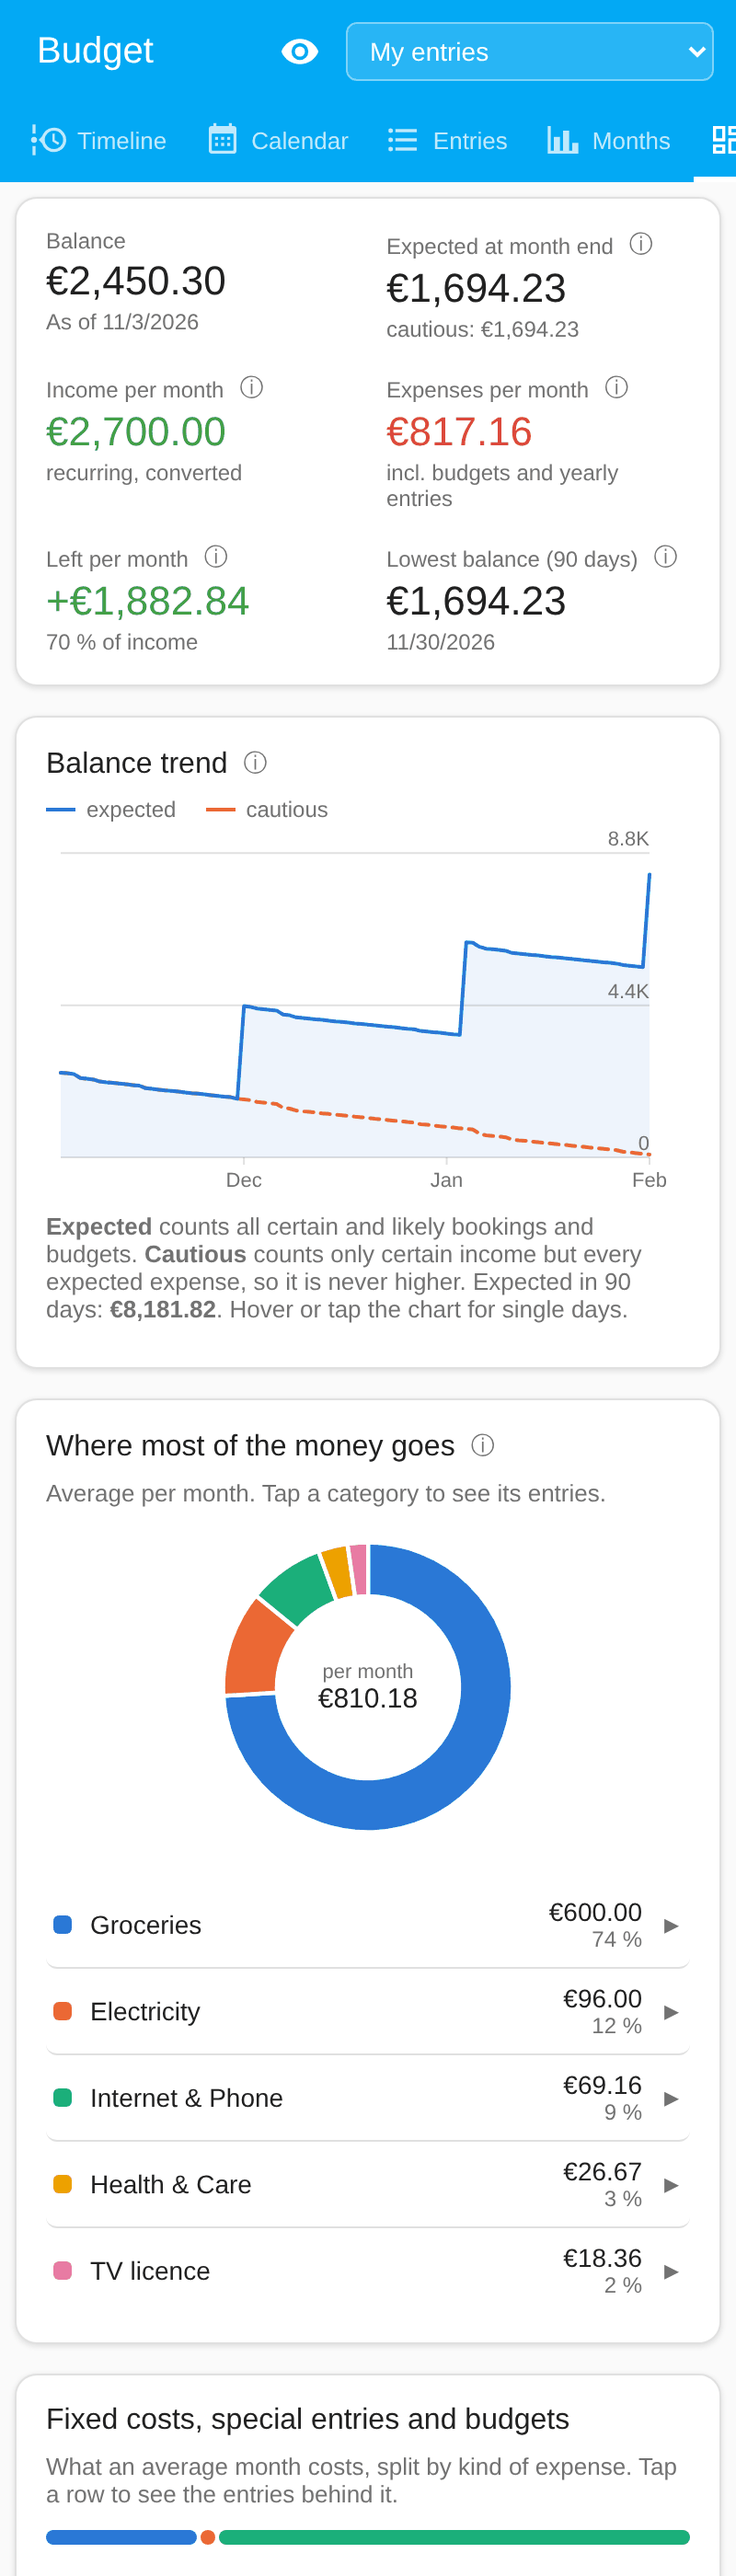
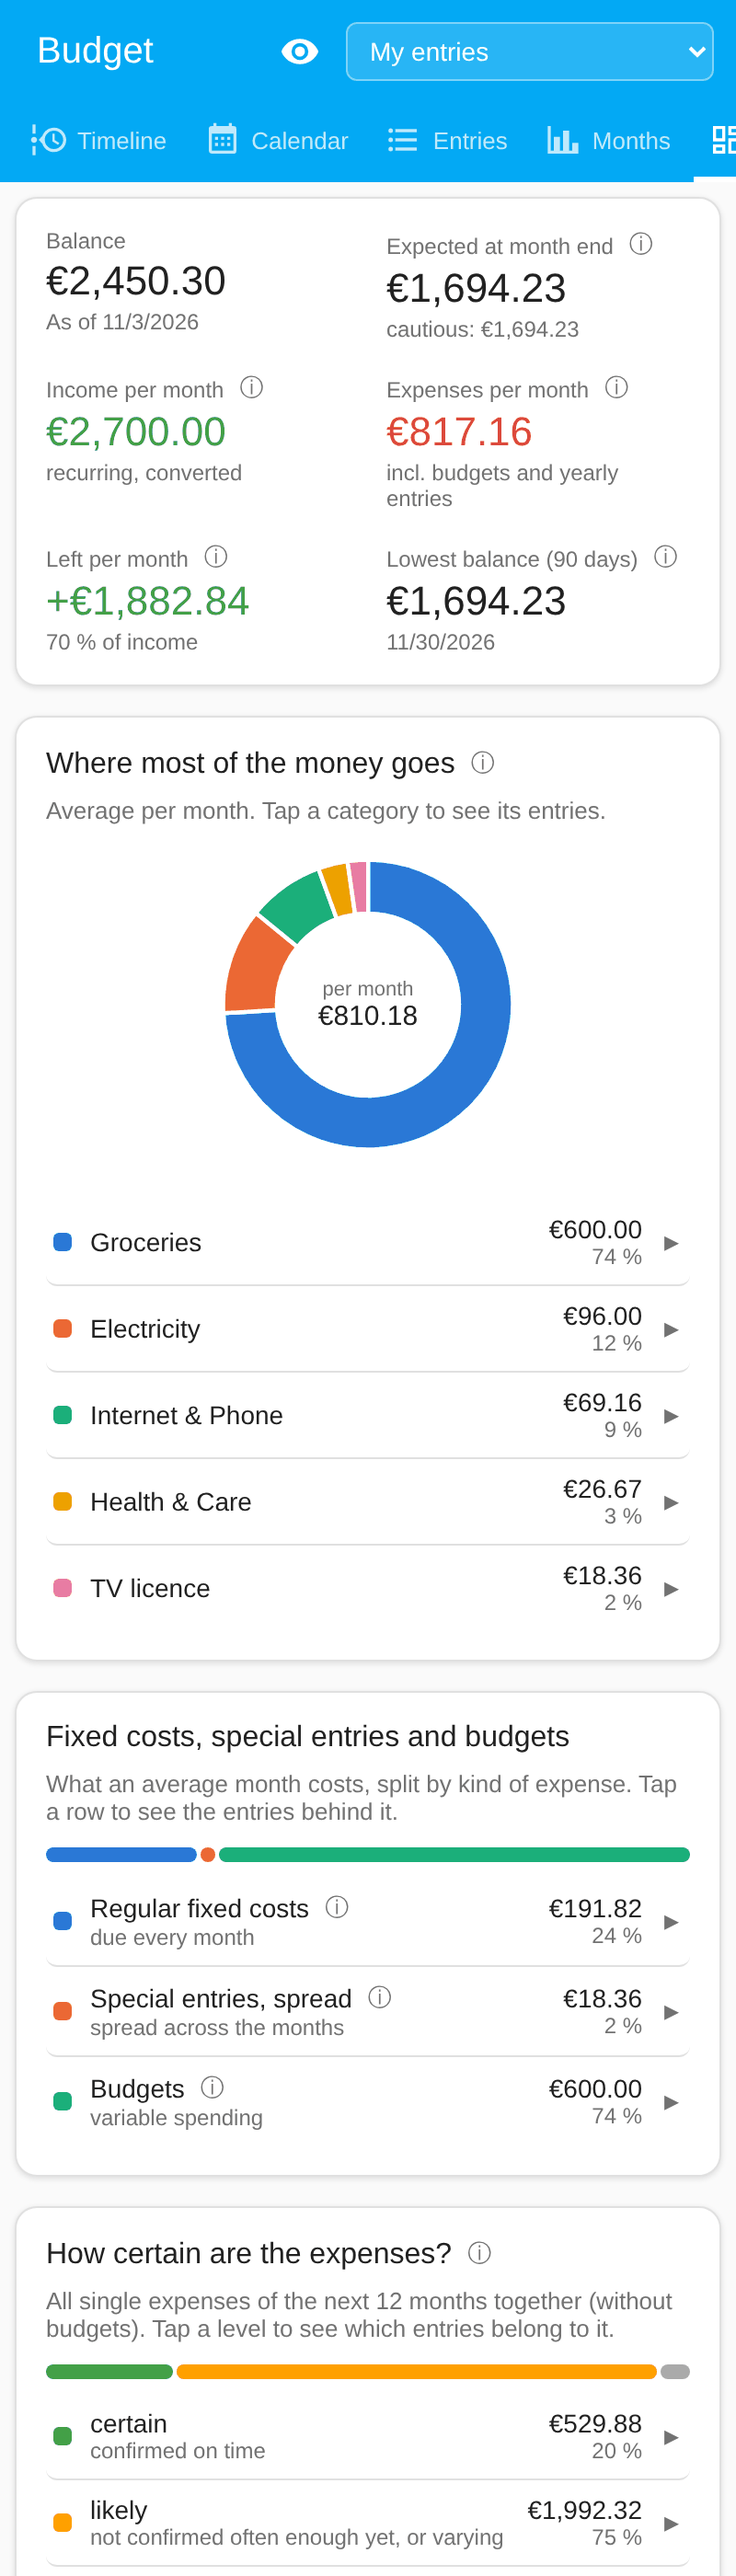
Kontostand-Verlauf aus der Übersicht entfernt (v0.7.3) (#29)
Claude-Session: https://claude.ai/code/session_01TQxBNxp7GSYrGRsbUUGUXa

diff --git a/custom_components/haushaltsbuch/frontend/haushaltsbuch-panel.js b/custom_components/haushaltsbuch/frontend/haushaltsbuch-panel.js
@@ -255,7 +255,6 @@ class HaushaltsbuchPanel extends HTMLElement {
       this._incognito = false;
     }
     this.shadowRoot.addEventListener("click", (ev) => this._onClick(ev));
-    this.shadowRoot.addEventListener("pointermove", (ev) => this._onTrendPointer(ev));
     this.shadowRoot.addEventListener("mouseover", (ev) => {
       const help = ev.target.closest?.(".help");
       if (help && help !== this._helpFor) {
@@ -267,8 +266,6 @@ class HaushaltsbuchPanel extends HTMLElement {
       // Only a text opened by hovering closes when the mouse leaves; a tapped one stays.
       if (this._helpByHover && ev.target.closest?.(".help") && !ev.relatedTarget?.closest?.(".help")) this._hideHelp();
     });
-    this.shadowRoot.addEventListener("pointerdown", (ev) => this._onTrendPointer(ev));
-    this.shadowRoot.addEventListener("pointerleave", (ev) => this._onTrendPointer(ev), true);
     window.addEventListener("scroll", () => this._hideHelp(), { passive: true, capture: true });
     window.addEventListener("resize", () => {
       if (this._view !== "dashboard" || !this.isConnected) return;
@@ -938,116 +935,7 @@ class HaushaltsbuchPanel extends HTMLElement {
       ${tile(tr("Bleibt pro Monat", "Left per month"), this._money(free, true), monthlyIn > 0 ? tr(`${Math.round((free / monthlyIn) * 100)} % der Einnahmen`, `${Math.round((free / monthlyIn) * 100)} % of income`) : "", free < 0 ? "neg" : "pos", tr("Einnahmen pro Monat minus Ausgaben pro Monat. So viel kannst du im Schnitt sparen.", "Income per month minus expenses per month: what you can save on average."))}
       ${tile(tr("Tiefster Stand (90 Tage)", "Lowest balance (90 days)"), lowest ? this._money(lowest.balance_likely) : "—", lowest ? fmtDate(lowest.date) : "", lowest && lowest.balance_likely < 0 ? "neg" : "", tr("Der niedrigste erwartete Kontostand in den nächsten 90 Tagen, meist kurz vor dem Gehalt.", "The lowest expected balance in the next 90 days, usually just before payday."))}
     </div></div>`;
-    return kpis + this._renderTrend(days) + this._renderCategoryPie(rows) + this._renderSpendSplit(rows, itemsById) + this._renderCertaintySplit(rows) + this._renderFrequencySplit(active) + this._renderTopItems(active) + this._renderUpcomingSpecials(rows, itemsById);
-  }
-
-  _renderTrend(days) {
-    const pts = days.filter((d) => d.balance_likely !== null);
-    if (pts.length < 2) {
-      return `<div class="card"><h3>${tr("Kontostand-Verlauf", "Balance trend")}</h3><div class="empty">${tr("Setze zuerst einen Kontostand, dann erscheint hier der Verlauf der nächsten 90 Tage.", "Set a balance first to see the next 90 days here.")}</div></div>`;
-    }
-    const W = Math.max(280, Math.min(this.clientWidth || 400, 900) - 64);
-    const H = 200;
-    const pad = { l: 8, r: 8, t: 12, b: 22 };
-    const vals = pts.flatMap((d) => [d.balance_likely, d.balance_sure]);
-    let lo = Math.min(...vals, 0);
-    let hi = Math.max(...vals);
-    const span = hi - lo || 1;
-    hi += span * 0.08;
-    lo -= lo < 0 ? span * 0.08 : 0;
-    const x = (i) => pad.l + (i / (pts.length - 1)) * (W - pad.l - pad.r);
-    const y = (v) => pad.t + (1 - (v - lo) / (hi - lo)) * (H - pad.t - pad.b);
-    const path = (key) => pts.map((d, i) => `${i ? "L" : "M"}${x(i).toFixed(1)},${y(d[key]).toFixed(1)}`).join("");
-    const area = `${path("balance_likely")}L${x(pts.length - 1).toFixed(1)},${y(lo).toFixed(1)}L${x(0).toFixed(1)},${y(lo).toFixed(1)}Z`;
-    const ticks = [];
-    pts.forEach((d, i) => {
-      if (parseIso(d.date).getDate() === 1) ticks.push(i);
-    });
-    const gridVals = [lo, (lo + hi) / 2, hi].map((v) => Math.round(v / 100) * 100);
-    this._trendGeom = { pts, W, H, x, y };
-    const last = pts[pts.length - 1];
-    return `<div class="card">
-      <h3>${tr("Kontostand-Verlauf", "Balance trend")}${this._help(tr("Ausgehend von deinem zuletzt gesetzten Kontostand wird jede kommende Buchung abgezogen oder addiert. Erwartet: sichere und wahrscheinliche Buchungen und Budgets. Vorsichtig: nur sichere Einnahmen, aber alle erwarteten Ausgaben.", "Starting from the balance you last set, every upcoming booking is added or subtracted. Expected: certain and likely bookings and budgets. Cautious: only certain income, but every expected expense."))}</h3>
-      <div class="legend">
-        <span><i class="swatch line s1"></i>${tr("erwartet", "expected")}</span>
-        <span><i class="swatch line s2 dashed"></i>${tr("vorsichtig", "cautious")}</span>
-      </div>
-      <div class="trend" style="height:${H}px">
-        <svg width="${W}" height="${H}" viewBox="0 0 ${W} ${H}" role="img" aria-label="${tr("Erwarteter Kontostand der nächsten 90 Tage", "Expected balance over the next 90 days")}">
-          ${gridVals.map((v) => `<line class="grid" x1="${pad.l}" x2="${W - pad.r}" y1="${y(v)}" y2="${y(v)}"></line><text class="axis" x="${W - pad.r}" y="${y(v) - 4}" text-anchor="end">${this._compact(v)}</text>`).join("")}
-          ${lo < 0 ? `<line class="zero" x1="${pad.l}" x2="${W - pad.r}" y1="${y(0)}" y2="${y(0)}"></line>` : ""}
-          ${ticks.map((i) => `<line class="tick" x1="${x(i)}" x2="${x(i)}" y1="${H - pad.b}" y2="${H - pad.b + 4}"></line><text class="axis" x="${x(i)}" y="${H - 6}" text-anchor="middle">${monthName(parseIso(pts[i].date).getMonth(), "short")}</text>`).join("")}
-          <path class="area" d="${area}"></path>
-          <path class="line s2 dashed" d="${path("balance_sure")}"></path>
-          <path class="line s1" d="${path("balance_likely")}"></path>
-          <g class="cross" hidden><line class="cross-line" y1="${pad.t}" y2="${H - pad.b}"></line><circle class="dot s1" r="4"></circle><circle class="dot s2" r="4"></circle></g>
-          <rect class="hit" x="0" y="0" width="${W}" height="${H}"></rect>
-        </svg>
-        <div class="tip" hidden></div>
-      </div>
-      <p class="hint">${tr(`<b>Erwartet</b> rechnet alle sicheren und wahrscheinlichen Buchungen und Budgets ein. <b>Vorsichtig</b> zählt nur sichere Einnahmen, aber alle erwarteten Ausgaben, liegt also nie darüber. In 90 Tagen erwartet: <b>${this._money(last.balance_likely)}</b>. Fahre über das Diagramm oder tippe darauf für einzelne Tage.`, `<b>Expected</b> counts all certain and likely bookings and budgets. <b>Cautious</b> counts only certain income but every expected expense, so it is never higher. Expected in 90 days: <b>${this._money(last.balance_likely)}</b>. Hover or tap the chart for single days.`)}</p>
-    </div>`;
-  }
-
-  _compact(v) {
-    try {
-      return new Intl.NumberFormat(this._numberLocale(), { notation: "compact", maximumFractionDigits: 1 }).format(v);
-    } catch (err) {
-      return String(Math.round(v));
-    }
-  }
-
-  _onTrendPointer(ev) {
-    const box = ev.target?.closest?.(".trend");
-    const g = this._trendGeom;
-    if (!box || !g) return;
-    const cross = box.querySelector(".cross");
-    const tip = box.querySelector(".tip");
-    if (ev.type === "pointerleave") {
-      if (ev.target === box) {
-        cross.setAttribute("hidden", "");
-        tip.hidden = true;
-      }
-      return;
-    }
-    const rect = box.querySelector("svg").getBoundingClientRect();
-    const px = ((ev.clientX - rect.left) / rect.width) * g.W;
-    let i = Math.round(((px - g.x(0)) / (g.x(g.pts.length - 1) - g.x(0))) * (g.pts.length - 1));
-    i = Math.max(0, Math.min(g.pts.length - 1, i));
-    const d = g.pts[i];
-    const cx = g.x(i);
-    cross.removeAttribute("hidden");
-    cross.querySelector(".cross-line").setAttribute("x1", cx);
-    cross.querySelector(".cross-line").setAttribute("x2", cx);
-    const [d1, d2] = cross.querySelectorAll(".dot");
-    d1.setAttribute("cx", cx);
-    d1.setAttribute("cy", g.y(d.balance_likely));
-    d2.setAttribute("cx", cx);
-    d2.setAttribute("cy", g.y(d.balance_sure));
-    const moves = d.entries.filter((e) => e.status !== "skipped");
-    tip.innerHTML = `<b>${this._dateLabel(d.date)}</b>
-      <div class="tip-row"><i class="swatch line s1"></i>${tr("erwartet", "expected")}<span>${this._money(d.balance_likely)}</span></div>
-      <div class="tip-row"><i class="swatch line s2 dashed"></i>${tr("vorsichtig", "cautious")}<span>${this._money(d.balance_sure)}</span></div>
-      ${moves.slice(0, 3).map((e) => `<div class="tip-row muted">${esc(e.name)}<span>${this._money(e.amount, true)}</span></div>`).join("")}${moves.length > 3 ? `<div class="tip-row muted">+${moves.length - 3}</div>` : ""}`;
-    tip.hidden = false;
-    const left = (cx / g.W) * rect.width;
-    tip.style.left = `${Math.min(Math.max(left - tip.offsetWidth / 2, 0), rect.width - tip.offsetWidth)}px`;
-  }
-
-  /** Thin segmented bar with a list of parts below (name, amount, share). */
-  _splitBar(parts, total) {
-    const shown = parts.filter((p) => p.value > 0);
-    if (!shown.length || total <= 0) return `<div class="empty">${tr("Keine Daten.", "No data.")}</div>`;
-    return `<div class="split" role="img" aria-label="${esc(shown.map((p) => `${p.label} ${Math.round((p.value / total) * 100)} %`).join(", "))}">
-        ${shown.map((p) => `<span class="${p.cls}" style="flex:${p.value}" title="${esc(p.label)}: ${Math.round((p.value / total) * 100)} %"></span>`).join("")}
-      </div>
-      <div class="split-list">
-        ${shown
-          .map(
-            (p) => `<div class="split-row"><i class="swatch ${p.cls}"></i><div class="split-name">${p.label}${p.hint ? `<small>${p.hint}</small>` : ""}</div><div class="split-value">${this._money(p.value)}<small>${Math.round((p.value / total) * 100)} %</small></div></div>`
-          )
-          .join("")}
-      </div>`;
+    return kpis + this._renderCategoryPie(rows) + this._renderSpendSplit(rows, itemsById) + this._renderCertaintySplit(rows) + this._renderFrequencySplit(active) + this._renderTopItems(active) + this._renderUpcomingSpecials(rows, itemsById);
   }
 
   _showHelp(el) {
@@ -2002,31 +1890,7 @@ const STYLES = `
   .kpis { display: grid; grid-template-columns: repeat(2, minmax(0, 1fr)); gap: 16px 20px; }
   @media (min-width: 700px) { .kpis { grid-template-columns: repeat(3, minmax(0, 1fr)); } }
   .kpi-value { font-size: 22px; font-weight: 500; margin: 2px 0; }
-  .legend { display: flex; flex-wrap: wrap; gap: 6px 16px; font-size: 12px; color: var(--secondary-text-color); margin: 8px 0 4px; }
-  .legend span { display: inline-flex; align-items: center; gap: 6px; }
   .swatch { display: inline-block; width: 10px; height: 10px; border-radius: 3px; flex-shrink: 0; }
-  .swatch.line { width: 16px; height: 0; border-top: 2px solid var(--viz-1); border-radius: 0; }
-  .swatch.line.s2 { border-top-color: var(--viz-2); }
-  .swatch.line.dashed { border-top-style: dashed; }
-  .trend { position: relative; margin-top: 4px; touch-action: pan-y; }
-  .trend svg { display: block; overflow: visible; }
-  .trend .grid { stroke: var(--divider-color, rgba(0,0,0,.12)); stroke-width: 1; }
-  .trend .zero { stroke: var(--error-color, #db4437); stroke-width: 1; stroke-dasharray: 3 3; }
-  .trend .tick { stroke: var(--divider-color, rgba(0,0,0,.2)); }
-  .trend .axis { fill: var(--secondary-text-color); font-size: 11px; font-variant-numeric: tabular-nums; }
-  .trend .area { fill: var(--viz-1); opacity: 0.08; }
-  .trend .line { fill: none; stroke: var(--viz-1); stroke-width: 2; stroke-linejoin: round; stroke-linecap: round; }
-  .trend .line.s2 { stroke: var(--viz-2); }
-  .trend .line.dashed { stroke-dasharray: 5 4; }
-  .trend .cross-line { stroke: var(--secondary-text-color); stroke-width: 1; opacity: 0.5; }
-  .trend .dot { fill: var(--viz-1); stroke: var(--card-background-color, #fff); stroke-width: 2; }
-  .trend .dot.s2 { fill: var(--viz-2); }
-  .trend .hit { fill: transparent; cursor: crosshair; }
-  .tip { position: absolute; top: 0; min-width: 170px; max-width: 240px; background: var(--card-background-color, #fff); color: var(--primary-text-color); border: 1px solid var(--divider-color); border-radius: 8px; box-shadow: 0 2px 8px rgba(0,0,0,.18); padding: 8px 10px; font-size: 12px; pointer-events: none; }
-  .tip b { display: block; margin-bottom: 4px; }
-  .tip-row { display: flex; align-items: center; gap: 6px; }
-  .tip-row span { margin-left: auto; padding-left: 12px; font-variant-numeric: tabular-nums; }
-  .tip-row.muted { color: var(--secondary-text-color); }
   .split { display: flex; gap: 2px; height: 8px; margin: 12px 0 8px; }
   .split span { border-radius: 4px; min-width: 2px; }
   .split-list { display: flex; flex-direction: column; }
@@ -2068,7 +1932,6 @@ const STYLES = `
   circle.p1 { color: var(--viz-1); } circle.p2 { color: var(--viz-2); } circle.p3 { color: var(--viz-3); } circle.p4 { color: var(--viz-4); } circle.p5 { color: var(--viz-5); } circle.p-other { color: var(--viz-other); }
   .swatch.p1 { background: var(--viz-1); } .swatch.p2 { background: var(--viz-2); } .swatch.p3 { background: var(--viz-3); } .swatch.p4 { background: var(--viz-4); } .swatch.p5 { background: var(--viz-5); } .swatch.p-other { background: var(--viz-other); }
   .cat-icon { display: inline-flex; vertical-align: -3px; margin-right: 6px; color: var(--primary-color); }
-  :host(.incognito) .trend .axis, :host(.incognito) .tip-row span { filter: blur(6px); }
   .balance { display: flex; flex-wrap: wrap; align-items: center; gap: 24px; }
   .balance > button { margin-left: auto; }
   .totals { display: flex; flex-wrap: wrap; gap: 24px; margin-top: 12px; }

diff --git a/custom_components/haushaltsbuch/const.py b/custom_components/haushaltsbuch/const.py
@@ -2,7 +2,7 @@
 from __future__ import annotations
 
 DOMAIN = "haushaltsbuch"
-VERSION = "0.7.2"
+VERSION = "0.7.3"
 
 STORAGE_KEY = f"{DOMAIN}.data"
 STORAGE_VERSION = 1

diff --git a/README.md b/README.md
@@ -35,7 +35,7 @@ Alle Posten werden von Hand erfasst. Es gibt keine Bankanbindung, und die Daten 
 - **Bestätigen**: Fällige Buchungen als „gebucht“ (optional mit echtem Datum und Betrag) oder „ausgefallen“ markieren
 - **Wochenenden und Bankfeiertage**: Buchungen rutschen auf den nächsten Bankarbeitstag, das Gehalt auf den vorherigen (pro Posten einstellbar)
 - **Monatsübersicht** mit Einnahmen, Ausgaben und Saldo für 12 Monate. **Sonderposten** (alles, was nicht jeden Monat kommt, z.B. GEZ, Versicherungen, Bonus) sind pro Monat und in Zeitleiste und Kalender gelb markiert. Darunter die **Ausgaben nach Kategorie** für die nächsten 12 Monate.
-- **Übersicht** als Dashboard mit Kennzahlen, Kontostand-Verlauf und Kreisdiagramm nach Kategorie
+- **Übersicht** als Dashboard mit Kennzahlen und Kreisdiagramm nach Kategorie
 - **Suche** in den Posten und **alle offenen Buchungen auf einmal bestätigen**
 - **Vorlagen** für typische Posten (GEZ, Strom, Internet, Handy, Versicherungen, Kfz-Steuer, Streaming-Abos, Gehalt, Tanken, Räderwechsel …)
 - **Export und Import** der eigenen Posten als JSON-Datei, z.B. als Sicherung oder zum Umzug auf eine andere HA-Instanz. Beim Import wählbar: hinzufügen (Doppelte werden übersprungen) oder ersetzen
@@ -220,7 +220,6 @@ Einen Monat antippen klappt die einzelnen Buchungen auf. Ganz unten steht, welch
 
 Das Dashboard auf einen Blick: Kontostand, erwarteter Stand zum Monatsende, Einnahmen und Ausgaben pro Monat, was pro Monat übrig bleibt und der tiefste Stand der nächsten 90 Tage. Darunter:
 
-- **Kontostand-Verlauf** der nächsten 90 Tage, erwartet und nur mit sicheren Posten. Fahre über das Diagramm oder tippe darauf, um einzelne Tage mit ihren Buchungen zu sehen.
 - **Wohin das meiste Geld fließt:** Kreisdiagramm der Ausgaben nach Kategorie (die fünf größten, der Rest unter „Weitere“).
 - **Fixkosten, Sonderposten und Budgets** im Verhältnis, pro Monat gemittelt.
 - **Wie sicher sind die Ausgaben?** Anteil sicherer, wahrscheinlicher und unsicherer Ausgaben.

diff --git a/README.en.md b/README.en.md
@@ -36,7 +36,7 @@ All items are entered by hand. There is no bank connection, and the data stays i
 - **Confirm** due bookings as *booked* (optionally with the real date and amount) or *skipped*
 - **Weekends and bank holidays**: bookings move to the next business day, salary to the previous one (configurable per entry)
 - **Monthly overview** with income, expenses and balance for 12 months. **Special entries** (anything that does not occur every month, e.g. insurance, bonus) are highlighted. Below that, **spending per category**.
-- **Overview** dashboard with key figures, balance trend and a pie chart by category
+- **Overview** dashboard with key figures and a pie chart by category
 - **Search** in entries and **confirm all open bookings at once**
 - **Templates** for typical entries (salary, rent, electricity, internet, mobile, insurance, vehicle tax, streaming, fuel, tyre change …)
 - **Export and import** your own entries as a JSON file, e.g. as a backup or to move to another HA instance
@@ -210,7 +210,6 @@ Tap a month to expand its bookings. At the bottom, **spending per category**: la
 
 The dashboard at a glance: balance, expected balance at month end, income and expenses per month, what is left per month and the lowest balance of the next 90 days. Below:
 
-- **Balance trend** for the next 90 days, expected and certain-only. Hover or tap the chart to see single days with their bookings.
 - **Where most of the money goes:** a pie chart of expenses by category (the five largest, the rest under "Others").
 - **Fixed costs, special entries and budgets** as shares of an average month.
 - **How certain are the expenses?** Share of certain, likely and uncertain expenses.
